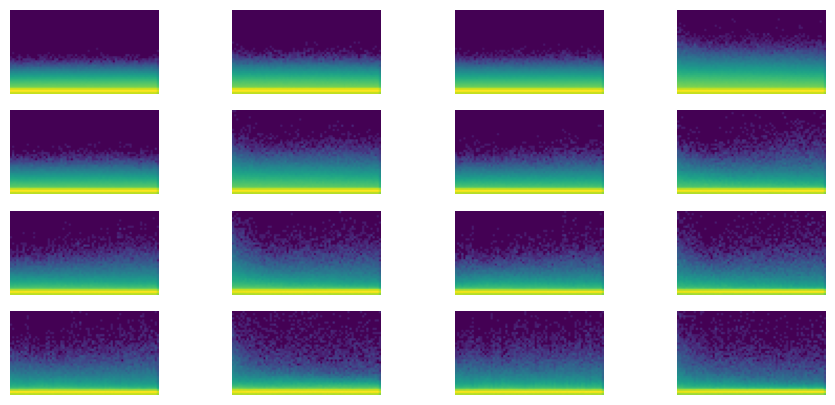
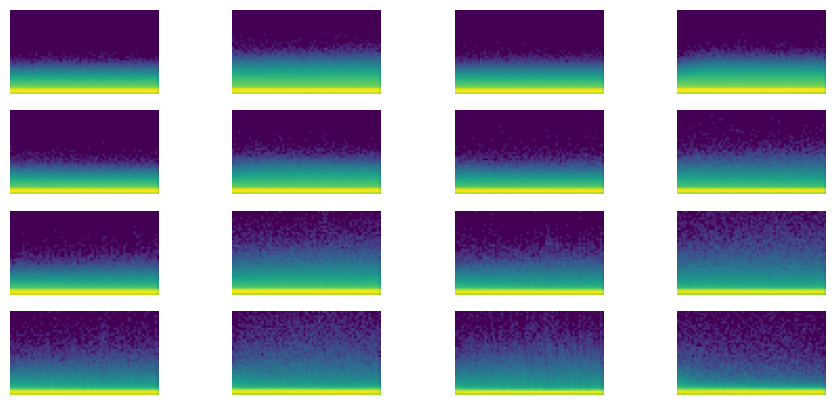
updated docs

diff --git a/README.md b/README.md
@@ -266,21 +266,21 @@ dls = get_dls(trnds, vldds, bs=32)
 next(iter(dls.train))[0][:2], next(iter(dls.train))[1][:2]
 ```
 
-    (tensor([[10, 15, 16, 18,  5, 18, 16,  6,  5, 13, 15,  6, 18,  3, 16,  1, 14, 10, 16,  4, 20,  5, 10,  1,  5,  6, 13, 18,  1, 16, 18, 18, 11,
-               3,  9,  3,  9,  6, 18,  5,  1,  8, 18,  4, 11,  6,  3, 18,  6,  1, 15,  4,  1, 18, 10, 16, 14, 16, 14,  7, 16, 10,  6,  6,  7, 15,
-              10, 15, 18, 15, 13, 15,  4, 14,  9,  4,  5, 14, 16, 13,  1, 16,  9, 16, 13,  9,  6,  0,  0,  0,  0,  0,  0,  0,  0,  0,  0,  0,  0,
-               0,  0,  0,  0,  0,  0,  0,  0,  0,  0,  0,  0,  0,  0,  0,  0,  0,  0,  0,  0,  0,  0,  0,  0,  0,  0,  0,  0,  0,  0,  0,  0,  0,
-               0,  0,  0,  0,  0,  0,  0,  0,  0,  0,  0,  0,  0,  0,  0,  0,  0,  0,  0,  0,  0,  0,  0,  0,  0,  0,  0,  0,  0,  0,  0,  0,  0,
-               0,  0,  0,  0,  0,  0,  0,  0,  0,  0,  0,  0,  0,  0,  0,  0,  0,  0,  0,  0,  0,  0,  0,  0,  0,  0,  0,  0,  0,  0,  0,  0,  0,
+    (tensor([[11,  1,  7,  7,  7,  7,  7,  7, 11, 11, 13, 15, 16,  4, 12, 14,  9,  4,  4,  4,  4, 19,  4, 10,  7, 13, 10,  5, 10, 16,  9,  8, 13,
+              12,  9,  9,  3,  8,  3,  9, 12, 13,  1, 10, 16,  1, 10,  8, 17, 10,  8, 12,  4,  4,  4,  4,  9,  4, 18,  5, 16, 20,  4, 13, 15, 15,
+               9, 12, 10,  9,  9,  9,  8, 17,  4,  9,  6, 14,  8,  8, 20,  9,  9,  3, 15, 15, 12, 10, 20,  4, 13, 20, 14, 14, 12,  9, 12,  3,  9,
+               8, 12, 20,  5,  4,  9,  9, 12,  5,  6,  6, 12,  1,  3,  8, 16,  9,  4,  4,  4, 18, 10,  3, 18,  4, 11,  3,  4,  4,  6, 17, 17, 18,
+              17, 17,  1,  4, 14,  6,  6,  3,  7, 16, 16, 14, 12, 18, 16, 12, 12, 14,  4,  1, 17,  3, 14, 17, 16,  8,  6,  4, 18, 10, 18,  2, 10,
+              16, 11, 11, 12, 10,  9, 14,  0,  0,  0,  0,  0,  0,  0,  0,  0,  0,  0,  0,  0,  0,  0,  0,  0,  0,  0,  0,  0,  0,  0,  0,  0,  0,
                0,  0],
-             [11, 12, 13, 16,  1, 13, 16, 20, 13, 11,  1, 16, 10, 20, 18,  6,  3, 10,  7, 13,  3, 18, 17,  4,  1, 11, 10, 20,  4,  9,  5, 16, 13,
-               1,  6, 13,  8, 10, 16,  8, 15, 18,  2, 15,  3, 11,  8, 17, 15, 15, 16, 10,  6, 20,  1, 20, 18, 12,  5, 14, 14, 13,  1,  3,  1,  4,
-              15,  1, 10,  3, 17, 11, 12,  5,  3, 18,  8,  9,  6,  9, 13, 18, 15,  8, 11, 19, 16, 14, 15,  3, 13, 16, 10, 15,  9, 16,  6, 18,  6,
-              12,  8,  5,  8,  9, 12, 10,  3,  9, 16,  8,  3, 12,  9,  1, 10, 20,  3, 17,  5, 16,  1,  5,  6, 12,  8, 10, 16,  2,  9, 18, 18,  2,
-               3,  4, 12,  6, 16,  9,  6, 20,  6,  5, 18,  7,  5,  4, 17, 14,  4,  1,  1,  4, 15,  1,  8,  4,  9, 11, 12,  6, 11, 10, 10, 12,  3,
-              15,  9, 18,  5, 18,  6, 15,  5,  9, 16, 15,  9,  4, 15,  4,  1,  4, 10,  6,  1, 15,  1,  9,  4,  5,  0,  0,  0,  0,  0,  0,  0,  0,
+             [11, 10,  1, 11, 18, 12,  9, 18, 10,  3, 19,  8, 15, 16, 10,  5, 19,  9,  4,  4, 11,  4, 10, 17, 10, 18,  6, 10, 14, 12, 16,  6,  9,
+              17, 17,  5, 18, 12, 18,  8,  1, 16,  6, 14,  5, 17,  4,  3, 11,  8, 13, 17, 18,  6,  5, 12, 11, 15,  9,  8, 17,  9,  6, 12, 18, 17,
+               8,  9, 10, 19,  3,  8,  6,  6, 14, 13, 15,  5, 15, 16, 11, 19,  4, 15, 20,  2, 15,  6, 18, 12,  1,  8, 18,  5, 11, 18,  3,  1,  1,
+               3,  4,  4,  9, 10,  4,  1, 16, 15, 12,  4, 10, 11, 14, 10, 10,  3,  9, 13, 14, 10,  3,  1,  8, 13, 18, 10, 18, 10,  6, 12,  9,  9,
+               3, 10, 13,  6,  1, 10,  3,  4, 15, 14, 10,  8,  4, 15, 11, 12, 10, 16, 16,  8, 14, 12, 15,  4,  8,  2,  2, 20, 16,  8, 16,  2,  9,
+               4,  9,  4, 12,  8,  3,  8, 17, 10, 14, 19, 10,  8,  3,  7, 16,  9,  1, 14, 15,  0,  0,  0,  0,  0,  0,  0,  0,  0,  0,  0,  0,  0,
                0,  0]]),
-     tensor([1., 1.]))
+     tensor([1., 0.]))
 
 ### Design Your Model
 
@@ -295,13 +295,13 @@ idx = next(iter(dls.train))[0] ## a single batch
 idx, idx.shape
 ```
 
-    (tensor([[11,  9,  9,  ...,  0,  0,  0],
-             [11,  3, 20,  ...,  0,  0,  0],
-             [ 1,  5,  4,  ...,  0,  0,  0],
+    (tensor([[11,  9, 17,  ...,  0,  0,  0],
+             [16, 12,  1,  ...,  0,  0,  0],
+             [16,  1, 14,  ...,  0,  0,  0],
              ...,
-             [ 1, 18, 18,  ...,  0,  0,  0],
-             [10,  6,  5,  ...,  0,  0,  0],
-             [ 2,  8,  1,  ...,  0,  0,  0]]),
+             [11,  1,  7,  ...,  0,  0,  0],
+             [11,  3, 13,  ...,  0,  0,  0],
+             [16, 17, 12,  ...,  0,  0,  0]]),
      torch.Size([32, 200]))
 
 #### Custom Modules
@@ -400,8 +400,8 @@ learn.lr_find(start_lr=1e-4, gamma=1.05, av_over=3, max_mult=5)
     </div>
     &#10;
 &#10;    <div>
-      <progress value='492' class='' max='565' style='width:300px; height:20px; vertical-align: middle;'></progress>
-      87.08% [492/565 00:33&lt;00:04 2.113]
+      <progress value='502' class='' max='565' style='width:300px; height:20px; vertical-align: middle;'></progress>
+      88.85% [502/565 00:32&lt;00:04 0.919]
     </div>
     &#10;
 ![](index_files/figure-commonmark/cell-25-output-4.png)
@@ -440,66 +440,66 @@ learn.fit(epochs)
 
 | BinaryAccuracy | BinaryMatthewsCorrCoef | BinaryAUROC | loss  | epoch | train |
 |----------------|------------------------|-------------|-------|-------|-------|
-| 0.507          | 0.001                  | 0.504       | 0.718 | 0     | train |
-| 0.534          | -0.021                 | 0.514       | 0.691 | 0     | eval  |
-| 0.515          | 0.008                  | 0.506       | 0.697 | 1     | train |
-| 0.539          | 0.040                  | 0.530       | 0.691 | 1     | eval  |
-| 0.519          | 0.015                  | 0.509       | 0.695 | 2     | train |
-| 0.534          | 0.003                  | 0.498       | 0.691 | 2     | eval  |
-| 0.519          | 0.017                  | 0.517       | 0.694 | 3     | train |
-| 0.525          | 0.036                  | 0.527       | 0.692 | 3     | eval  |
-| 0.582          | 0.155                  | 0.592       | 0.675 | 4     | train |
-| 0.638          | 0.283                  | 0.649       | 0.633 | 4     | eval  |
-| 0.618          | 0.242                  | 0.629       | 0.652 | 5     | train |
-| 0.651          | 0.321                  | 0.666       | 0.619 | 5     | eval  |
-| 0.627          | 0.266                  | 0.630       | 0.647 | 6     | train |
-| 0.656          | 0.329                  | 0.664       | 0.618 | 6     | eval  |
-| 0.635          | 0.286                  | 0.637       | 0.641 | 7     | train |
-| 0.647          | 0.332                  | 0.679       | 0.623 | 7     | eval  |
-| 0.636          | 0.284                  | 0.648       | 0.637 | 8     | train |
-| 0.645          | 0.309                  | 0.680       | 0.614 | 8     | eval  |
-| 0.635          | 0.281                  | 0.647       | 0.636 | 9     | train |
-| 0.649          | 0.346                  | 0.682       | 0.627 | 9     | eval  |
-| 0.636          | 0.286                  | 0.656       | 0.632 | 10    | train |
-| 0.654          | 0.340                  | 0.684       | 0.613 | 10    | eval  |
-| 0.646          | 0.304                  | 0.666       | 0.627 | 11    | train |
-| 0.653          | 0.314                  | 0.686       | 0.614 | 11    | eval  |
-| 0.645          | 0.299                  | 0.665       | 0.627 | 12    | train |
-| 0.666          | 0.327                  | 0.702       | 0.605 | 12    | eval  |
-| 0.648          | 0.301                  | 0.676       | 0.622 | 13    | train |
-| 0.665          | 0.340                  | 0.704       | 0.600 | 13    | eval  |
-| 0.657          | 0.319                  | 0.684       | 0.619 | 14    | train |
-| 0.670          | 0.333                  | 0.717       | 0.609 | 14    | eval  |
-| 0.656          | 0.318                  | 0.688       | 0.616 | 15    | train |
-| 0.655          | 0.313                  | 0.703       | 0.619 | 15    | eval  |
-| 0.652          | 0.308                  | 0.682       | 0.619 | 16    | train |
-| 0.674          | 0.352                  | 0.719       | 0.597 | 16    | eval  |
-| 0.659          | 0.324                  | 0.692       | 0.614 | 17    | train |
-| 0.662          | 0.348                  | 0.717       | 0.606 | 17    | eval  |
-| 0.658          | 0.320                  | 0.693       | 0.613 | 18    | train |
-| 0.668          | 0.336                  | 0.718       | 0.604 | 18    | eval  |
-| 0.657          | 0.316                  | 0.698       | 0.612 | 19    | train |
-| 0.662          | 0.339                  | 0.715       | 0.602 | 19    | eval  |
-| 0.660          | 0.325                  | 0.697       | 0.612 | 20    | train |
-| 0.662          | 0.330                  | 0.716       | 0.607 | 20    | eval  |
-| 0.665          | 0.334                  | 0.700       | 0.611 | 21    | train |
-| 0.662          | 0.317                  | 0.703       | 0.609 | 21    | eval  |
-| 0.665          | 0.337                  | 0.698       | 0.609 | 22    | train |
-| 0.666          | 0.326                  | 0.712       | 0.607 | 22    | eval  |
-| 0.666          | 0.336                  | 0.703       | 0.608 | 23    | train |
-| 0.677          | 0.360                  | 0.723       | 0.591 | 23    | eval  |
-| 0.663          | 0.330                  | 0.703       | 0.608 | 24    | train |
-| 0.676          | 0.358                  | 0.722       | 0.595 | 24    | eval  |
-| 0.666          | 0.335                  | 0.708       | 0.607 | 25    | train |
-| 0.675          | 0.361                  | 0.723       | 0.594 | 25    | eval  |
-| 0.661          | 0.323                  | 0.707       | 0.608 | 26    | train |
-| 0.664          | 0.321                  | 0.708       | 0.615 | 26    | eval  |
-| 0.664          | 0.328                  | 0.710       | 0.605 | 27    | train |
-| 0.663          | 0.322                  | 0.723       | 0.602 | 27    | eval  |
-| 0.669          | 0.337                  | 0.711       | 0.606 | 28    | train |
-| 0.647          | 0.290                  | 0.701       | 0.619 | 28    | eval  |
-| 0.669          | 0.339                  | 0.715       | 0.602 | 29    | train |
-| 0.665          | 0.336                  | 0.719       | 0.605 | 29    | eval  |
+| 0.510          | 0.008                  | 0.507       | 0.722 | 0     | train |
+| 0.527          | -0.033                 | 0.494       | 0.691 | 0     | eval  |
+| 0.515          | 0.004                  | 0.506       | 0.695 | 1     | train |
+| 0.534          | 0.003                  | 0.520       | 0.691 | 1     | eval  |
+| 0.537          | 0.054                  | 0.526       | 0.692 | 2     | train |
+| 0.530          | 0.058                  | 0.550       | 0.693 | 2     | eval  |
+| 0.553          | 0.090                  | 0.551       | 0.688 | 3     | train |
+| 0.562          | 0.108                  | 0.575       | 0.684 | 3     | eval  |
+| 0.589          | 0.170                  | 0.607       | 0.671 | 4     | train |
+| 0.619          | 0.234                  | 0.663       | 0.647 | 4     | eval  |
+| 0.622          | 0.247                  | 0.630       | 0.653 | 5     | train |
+| 0.643          | 0.302                  | 0.676       | 0.637 | 5     | eval  |
+| 0.627          | 0.260                  | 0.642       | 0.650 | 6     | train |
+| 0.649          | 0.313                  | 0.675       | 0.628 | 6     | eval  |
+| 0.633          | 0.272                  | 0.647       | 0.644 | 7     | train |
+| 0.650          | 0.309                  | 0.648       | 0.637 | 7     | eval  |
+| 0.634          | 0.276                  | 0.652       | 0.640 | 8     | train |
+| 0.650          | 0.314                  | 0.683       | 0.620 | 8     | eval  |
+| 0.637          | 0.284                  | 0.646       | 0.641 | 9     | train |
+| 0.651          | 0.320                  | 0.685       | 0.617 | 9     | eval  |
+| 0.639          | 0.287                  | 0.661       | 0.636 | 10    | train |
+| 0.645          | 0.308                  | 0.671       | 0.647 | 10    | eval  |
+| 0.638          | 0.281                  | 0.663       | 0.636 | 11    | train |
+| 0.646          | 0.298                  | 0.690       | 0.620 | 11    | eval  |
+| 0.641          | 0.286                  | 0.670       | 0.632 | 12    | train |
+| 0.648          | 0.296                  | 0.685       | 0.619 | 12    | eval  |
+| 0.641          | 0.290                  | 0.668       | 0.632 | 13    | train |
+| 0.662          | 0.323                  | 0.691       | 0.618 | 13    | eval  |
+| 0.643          | 0.290                  | 0.675       | 0.630 | 14    | train |
+| 0.641          | 0.286                  | 0.677       | 0.627 | 14    | eval  |
+| 0.643          | 0.289                  | 0.676       | 0.630 | 15    | train |
+| 0.659          | 0.311                  | 0.699       | 0.616 | 15    | eval  |
+| 0.644          | 0.291                  | 0.677       | 0.629 | 16    | train |
+| 0.652          | 0.314                  | 0.690       | 0.613 | 16    | eval  |
+| 0.646          | 0.296                  | 0.675       | 0.626 | 17    | train |
+| 0.645          | 0.282                  | 0.694       | 0.622 | 17    | eval  |
+| 0.642          | 0.288                  | 0.678       | 0.626 | 18    | train |
+| 0.648          | 0.332                  | 0.677       | 0.639 | 18    | eval  |
+| 0.645          | 0.292                  | 0.685       | 0.625 | 19    | train |
+| 0.634          | 0.260                  | 0.698       | 0.615 | 19    | eval  |
+| 0.649          | 0.302                  | 0.689       | 0.621 | 20    | train |
+| 0.651          | 0.344                  | 0.710       | 0.617 | 20    | eval  |
+| 0.648          | 0.299                  | 0.685       | 0.624 | 21    | train |
+| 0.660          | 0.315                  | 0.700       | 0.614 | 21    | eval  |
+| 0.648          | 0.297                  | 0.691       | 0.620 | 22    | train |
+| 0.563          | 0.168                  | 0.679       | 0.672 | 22    | eval  |
+| 0.651          | 0.303                  | 0.690       | 0.620 | 23    | train |
+| 0.654          | 0.330                  | 0.710       | 0.611 | 23    | eval  |
+| 0.650          | 0.304                  | 0.691       | 0.620 | 24    | train |
+| 0.668          | 0.344                  | 0.711       | 0.599 | 24    | eval  |
+| 0.654          | 0.311                  | 0.692       | 0.617 | 25    | train |
+| 0.649          | 0.294                  | 0.698       | 0.620 | 25    | eval  |
+| 0.650          | 0.301                  | 0.690       | 0.617 | 26    | train |
+| 0.642          | 0.320                  | 0.697       | 0.611 | 26    | eval  |
+| 0.650          | 0.303                  | 0.688       | 0.620 | 27    | train |
+| 0.663          | 0.334                  | 0.708       | 0.625 | 27    | eval  |
+| 0.652          | 0.308                  | 0.694       | 0.616 | 28    | train |
+| 0.672          | 0.356                  | 0.711       | 0.597 | 28    | eval  |
+| 0.651          | 0.304                  | 0.695       | 0.617 | 29    | train |
+| 0.659          | 0.322                  | 0.702       | 0.603 | 29    | eval  |
 
 </div>
 
@@ -523,40 +523,14 @@ model = nn.Sequential(nn.Embedding(vocab_size, n_embd, padding_idx=0), Reshape()
                       nn.Sigmoid())
 
 model = model.apply(iw)
-metrics = MetricsCB(BinaryAccuracy(), BinaryMatthewsCorrCoef(), BinaryAUROC())
 astats = ActivationStats(fc.risinstance(GeneralRelu))
-cbs = [DeviceCB(), ProgressCB(plot=False), metrics, astats]
+cbs = [DeviceCB(), astats]
 learn = TrainLearner(model, dls, F.binary_cross_entropy, lr=lr, cbs=cbs, opt_func=torch.optim.AdamW)
 print(f"Parameters total: {sum(p.nelement() for p in model.parameters())}")
 learn.fit(1)
 ```
 
     Parameters total: 10175
-
-<style>
-    /* Turns off some styling */
-    progress {
-        /* gets rid of default border in Firefox and Opera. */
-        border: none;
-        /* Needs to be in here for Safari polyfill so background images work as expected. */
-        background-size: auto;
-    }
-    progress:not([value]), progress:not([value])::-webkit-progress-bar {
-        background: repeating-linear-gradient(45deg, #7e7e7e, #7e7e7e 10px, #5c5c5c 10px, #5c5c5c 20px);
-    }
-    .progress-bar-interrupted, .progress-bar-interrupted::-webkit-progress-bar {
-        background: #F44336;
-    }
-</style>
-
-<div>
-
-| BinaryAccuracy | BinaryMatthewsCorrCoef | BinaryAUROC | loss  | epoch | train |
-|----------------|------------------------|-------------|-------|-------|-------|
-| 0.507          | -0.002                 | 0.498       | 0.713 | 0     | train |
-| 0.524          | 0.010                  | 0.524       | 0.691 | 0     | eval  |
-
-</div>
 
 ``` python
 astats.color_dim()
